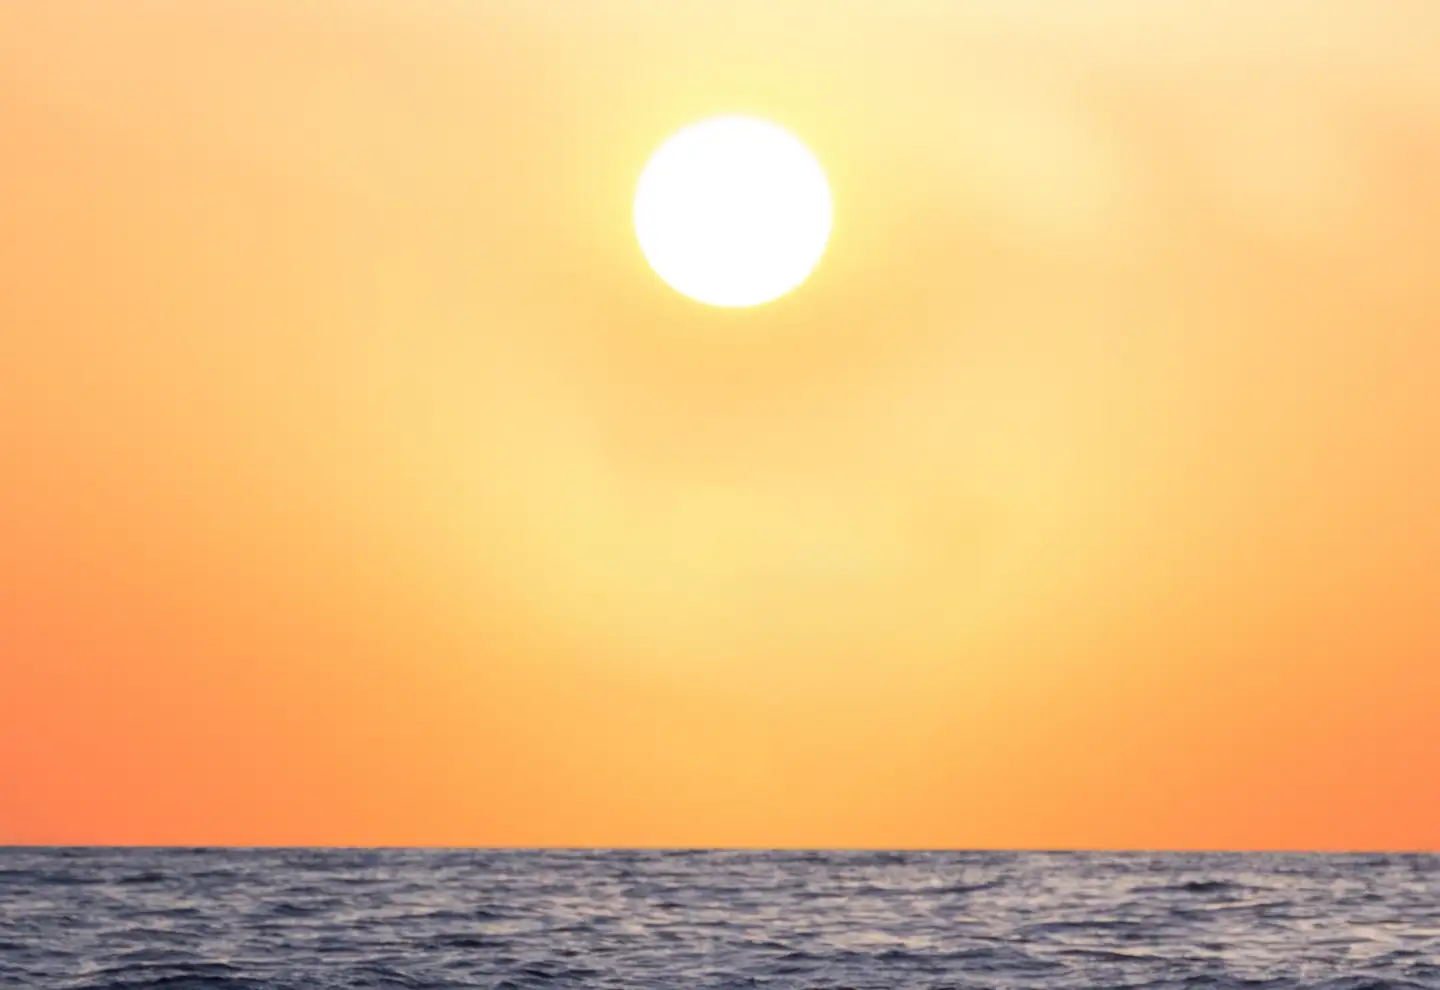
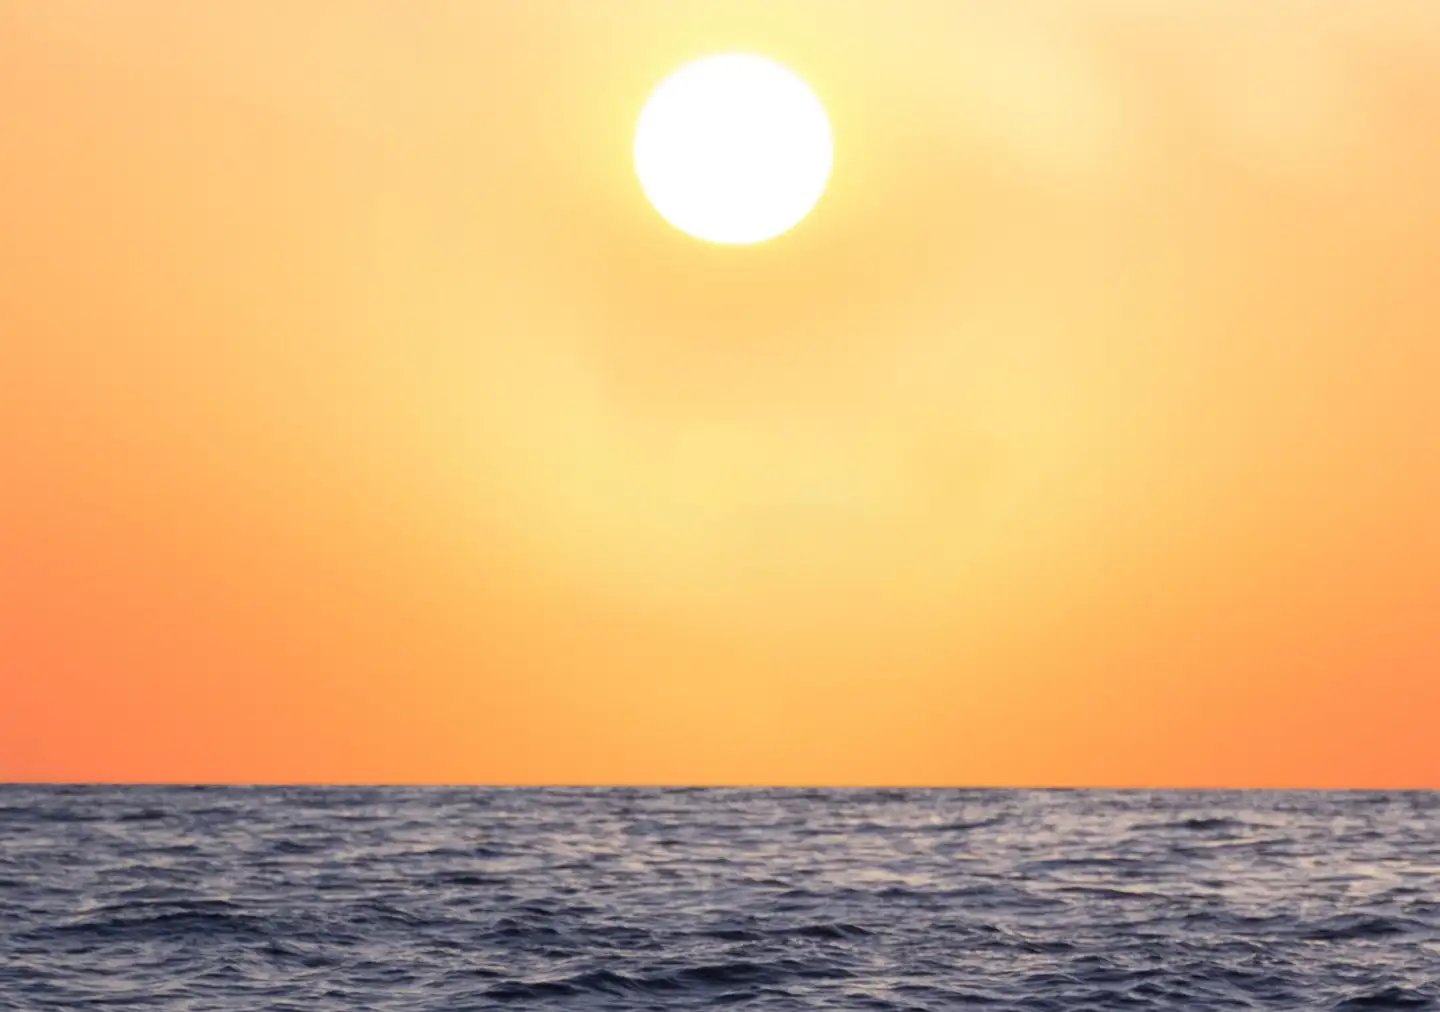
SchoBoot: show the sea on desktop and carry its blue into the next section
Re-crop the desktop sunset so the horizon and sea always show (sun is
visible up to ~1440px), anchor it to the bottom of a taller section,
and fade the bottom into #3B3F55. The destination cards section now
continues in sea blue with white text, with no gap in between, on
phones and desktop.

diff --git a/schoboot/index.html b/schoboot/index.html
@@ -141,9 +141,17 @@ s{color:var(--muted)}
 .cmp__to{font-weight:500;box-shadow:inset 3px 0 0 var(--yellow)}
 .cmp__head{display:none}
 /* ---------- Section 2: senja + glassmorphism ---------- */
-.sec--sunset{position:relative;overflow:hidden;margin:0 0 8px;border-radius:0 0 28px 28px;padding:40px 0 48px;background:#FFE29A url(media/sunset-750.webp) center 40%/cover no-repeat}
+.sec.sec--sunset{position:relative;overflow:hidden;margin:0;border-radius:0;padding:40px 0 72px;background:#FFE29A url(media/sunset-750.webp) center 40%/cover no-repeat}
 .sec--sunset::before{content:"";position:absolute;left:0;right:0;top:0;height:160px;background:linear-gradient(#FFE29A,rgba(255,226,154,0));pointer-events:none}
-.sec--sunset .wrap{position:relative}
+.sec--sunset::after{content:"";position:absolute;left:0;right:0;bottom:0;height:90px;background:linear-gradient(rgba(59,63,85,0),#3B3F55);pointer-events:none}
+.sec--sunset .wrap{position:relative;z-index:1}
+/* Section setelah senja: biru laut, menyambung tanpa celah */
+.sec.sec--sea{margin:0 0 8px;border-radius:0 0 28px 28px;background:linear-gradient(180deg,#3B3F55 0%,#2A2E43 55%,#20233A 100%);color:#fff}
+.sec--sea .h2{color:#fff}
+.sec--sea .lead{color:rgba(255,255,255,.78)}
+.sec--sea .deck__dots i{background:rgba(255,255,255,.3)}
+.sec--sea .deck__dots i.on{background:var(--orange)}
+.sec--sea .card{box-shadow:0 22px 50px rgba(0,0,0,.35)}
 .sec--sunset .h2{color:#1A1006}
 .sec--sunset .hl{background:linear-gradient(transparent 62%,rgba(255,255,255,.75) 62%)}
 .glass{background:rgba(255,255,255,.16);-webkit-backdrop-filter:blur(22px) saturate(160%);backdrop-filter:blur(22px) saturate(160%);border:1px solid rgba(255,255,255,.55);box-shadow:inset 0 1px 0 rgba(255,255,255,.6),0 24px 60px rgba(90,40,0,.18);border-radius:28px;padding:8px}
@@ -269,7 +277,9 @@ footer p + p{margin-top:6px}
 @media (min-width:768px){
   .sec,.closing{border-radius:var(--r-xl);margin:12px}
   .hero{border-radius:0;margin:0}
-  .sec.sec--sunset{margin:0 0 12px;border-radius:0 0 var(--r-xl) var(--r-xl);padding:120px 0 150px;background-image:url(media/sunset-1440.webp);background-position:center 52%}
+  .sec.sec--sunset{margin:0;border-radius:0;padding:140px 0 300px;background-image:url(media/sunset-1440.webp);background-position:center bottom}
+  .sec--sunset::after{height:140px}
+  .sec.sec--sea{margin:0 0 12px;border-radius:0 0 var(--r-xl) var(--r-xl)}
   .glass{padding:12px;border-radius:36px}
   .mentors{grid-auto-flow:row;grid-template-columns:repeat(3,1fr);margin:28px 0 0;padding:0;overflow:visible;gap:16px}
   .mcard b{font-size:18px}
@@ -395,7 +405,8 @@ footer p + p{margin-top:6px}
 
 <!-- §destinations -->
 <!-- TODO [V]: pastikan hak pakai ketiga foto, dan bahwa negara tujuan ini sesuai daftar kampus tujuan LPDP sebelum tayang -->
-<section class="sec sec--white" aria-labelledby="dest-title">
+<!-- Latar biru laut, melanjutkan laut di bawah section senja -->
+<section class="sec sec--sea" aria-labelledby="dest-title">
   <div class="wrap dest">
     <div>
       <h2 class="h2 reveal" id="dest-title">Kampus impianmu ada di mana?</h2>

diff --git a/src/schoboot.css b/src/schoboot.css
@@ -124,9 +124,17 @@ s{color:var(--muted)}
 .cmp__to{font-weight:500;box-shadow:inset 3px 0 0 var(--yellow)}
 .cmp__head{display:none}
 /* ---------- Section 2: senja + glassmorphism ---------- */
-.sec--sunset{position:relative;overflow:hidden;margin:0 0 8px;border-radius:0 0 28px 28px;padding:40px 0 48px;background:#FFE29A url(media/sunset-750.webp) center 40%/cover no-repeat}
+.sec.sec--sunset{position:relative;overflow:hidden;margin:0;border-radius:0;padding:40px 0 72px;background:#FFE29A url(media/sunset-750.webp) center 40%/cover no-repeat}
 .sec--sunset::before{content:"";position:absolute;left:0;right:0;top:0;height:160px;background:linear-gradient(#FFE29A,rgba(255,226,154,0));pointer-events:none}
-.sec--sunset .wrap{position:relative}
+.sec--sunset::after{content:"";position:absolute;left:0;right:0;bottom:0;height:90px;background:linear-gradient(rgba(59,63,85,0),#3B3F55);pointer-events:none}
+.sec--sunset .wrap{position:relative;z-index:1}
+/* Section setelah senja: biru laut, menyambung tanpa celah */
+.sec.sec--sea{margin:0 0 8px;border-radius:0 0 28px 28px;background:linear-gradient(180deg,#3B3F55 0%,#2A2E43 55%,#20233A 100%);color:#fff}
+.sec--sea .h2{color:#fff}
+.sec--sea .lead{color:rgba(255,255,255,.78)}
+.sec--sea .deck__dots i{background:rgba(255,255,255,.3)}
+.sec--sea .deck__dots i.on{background:var(--orange)}
+.sec--sea .card{box-shadow:0 22px 50px rgba(0,0,0,.35)}
 .sec--sunset .h2{color:#1A1006}
 .sec--sunset .hl{background:linear-gradient(transparent 62%,rgba(255,255,255,.75) 62%)}
 .glass{background:rgba(255,255,255,.16);-webkit-backdrop-filter:blur(22px) saturate(160%);backdrop-filter:blur(22px) saturate(160%);border:1px solid rgba(255,255,255,.55);box-shadow:inset 0 1px 0 rgba(255,255,255,.6),0 24px 60px rgba(90,40,0,.18);border-radius:28px;padding:8px}
@@ -252,7 +260,9 @@ footer p + p{margin-top:6px}
 @media (min-width:768px){
   .sec,.closing{border-radius:var(--r-xl);margin:12px}
   .hero{border-radius:0;margin:0}
-  .sec.sec--sunset{margin:0 0 12px;border-radius:0 0 var(--r-xl) var(--r-xl);padding:120px 0 150px;background-image:url(media/sunset-1440.webp);background-position:center 52%}
+  .sec.sec--sunset{margin:0;border-radius:0;padding:140px 0 300px;background-image:url(media/sunset-1440.webp);background-position:center bottom}
+  .sec--sunset::after{height:140px}
+  .sec.sec--sea{margin:0 0 12px;border-radius:0 0 var(--r-xl) var(--r-xl)}
   .glass{padding:12px;border-radius:36px}
   .mentors{grid-auto-flow:row;grid-template-columns:repeat(3,1fr);margin:28px 0 0;padding:0;overflow:visible;gap:16px}
   .mcard b{font-size:18px}

diff --git a/src/schoboot.html b/src/schoboot.html
@@ -98,7 +98,8 @@
 
 <!-- §destinations -->
 <!-- TODO [V]: pastikan hak pakai ketiga foto, dan bahwa negara tujuan ini sesuai daftar kampus tujuan LPDP sebelum tayang -->
-<section class="sec sec--white" aria-labelledby="dest-title">
+<!-- Latar biru laut, melanjutkan laut di bawah section senja -->
+<section class="sec sec--sea" aria-labelledby="dest-title">
   <div class="wrap dest">
     <div>
       <h2 class="h2 reveal" id="dest-title">Kampus impianmu ada di mana?</h2>
